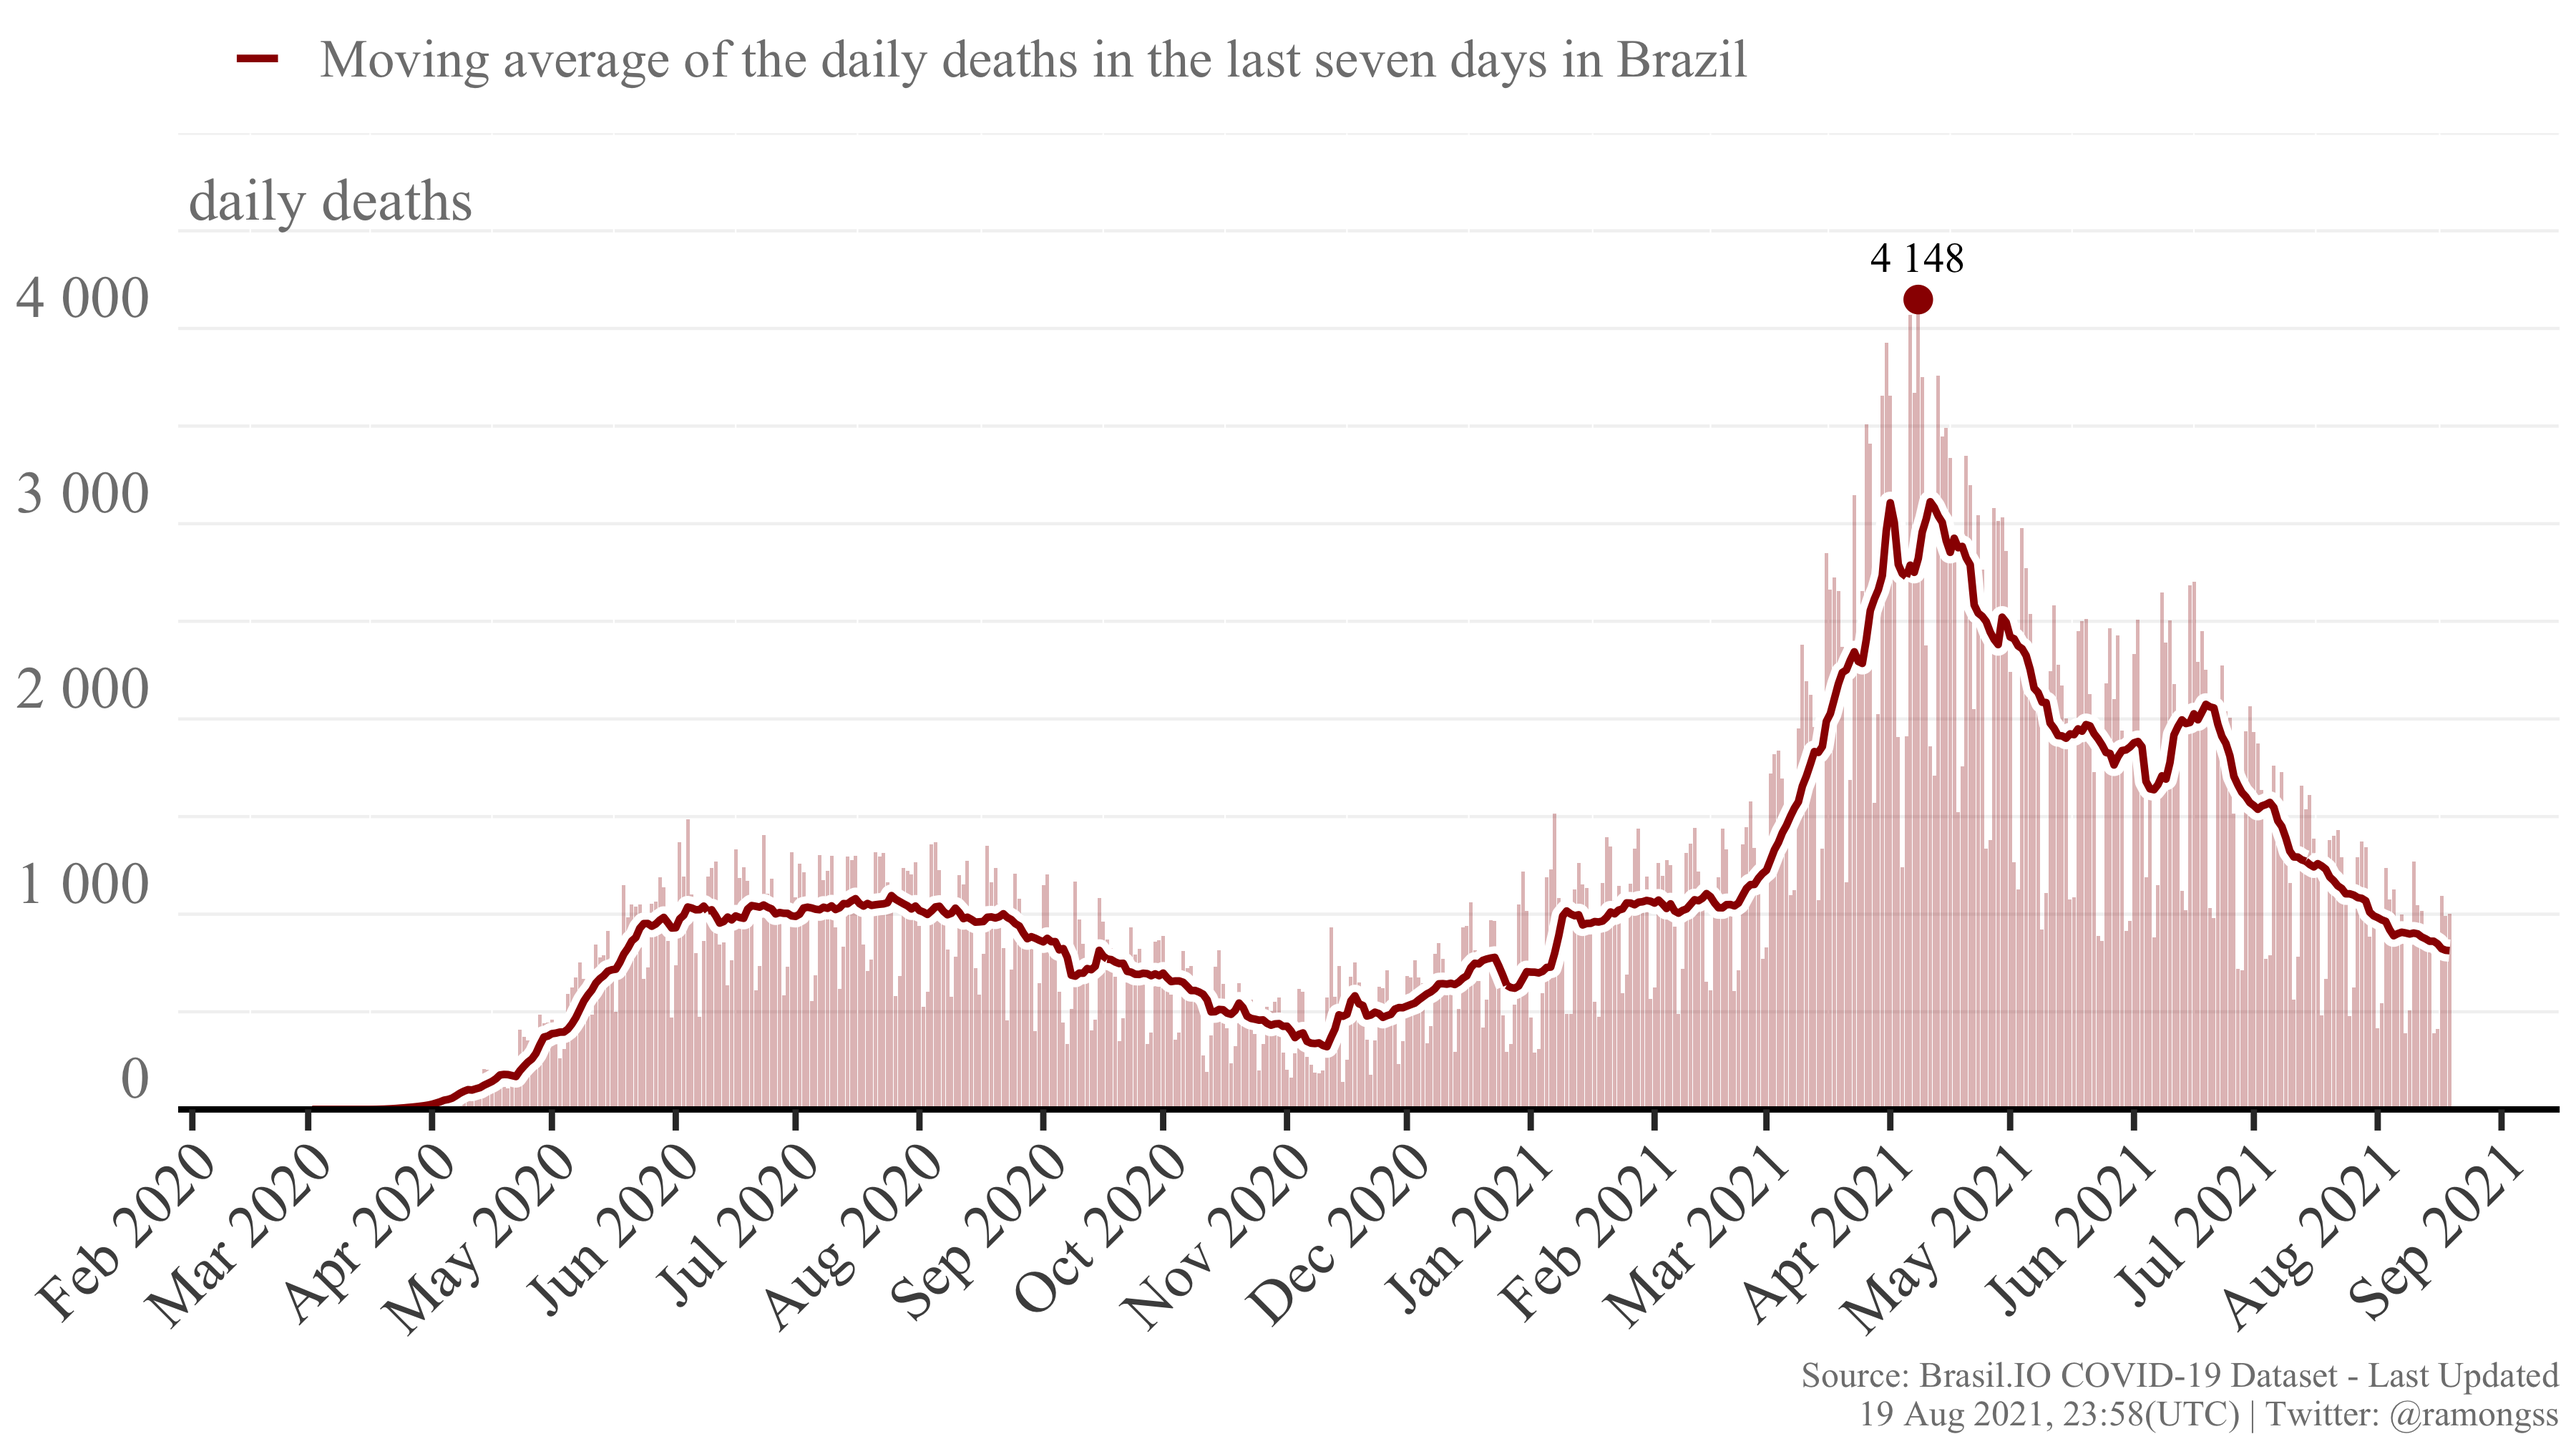
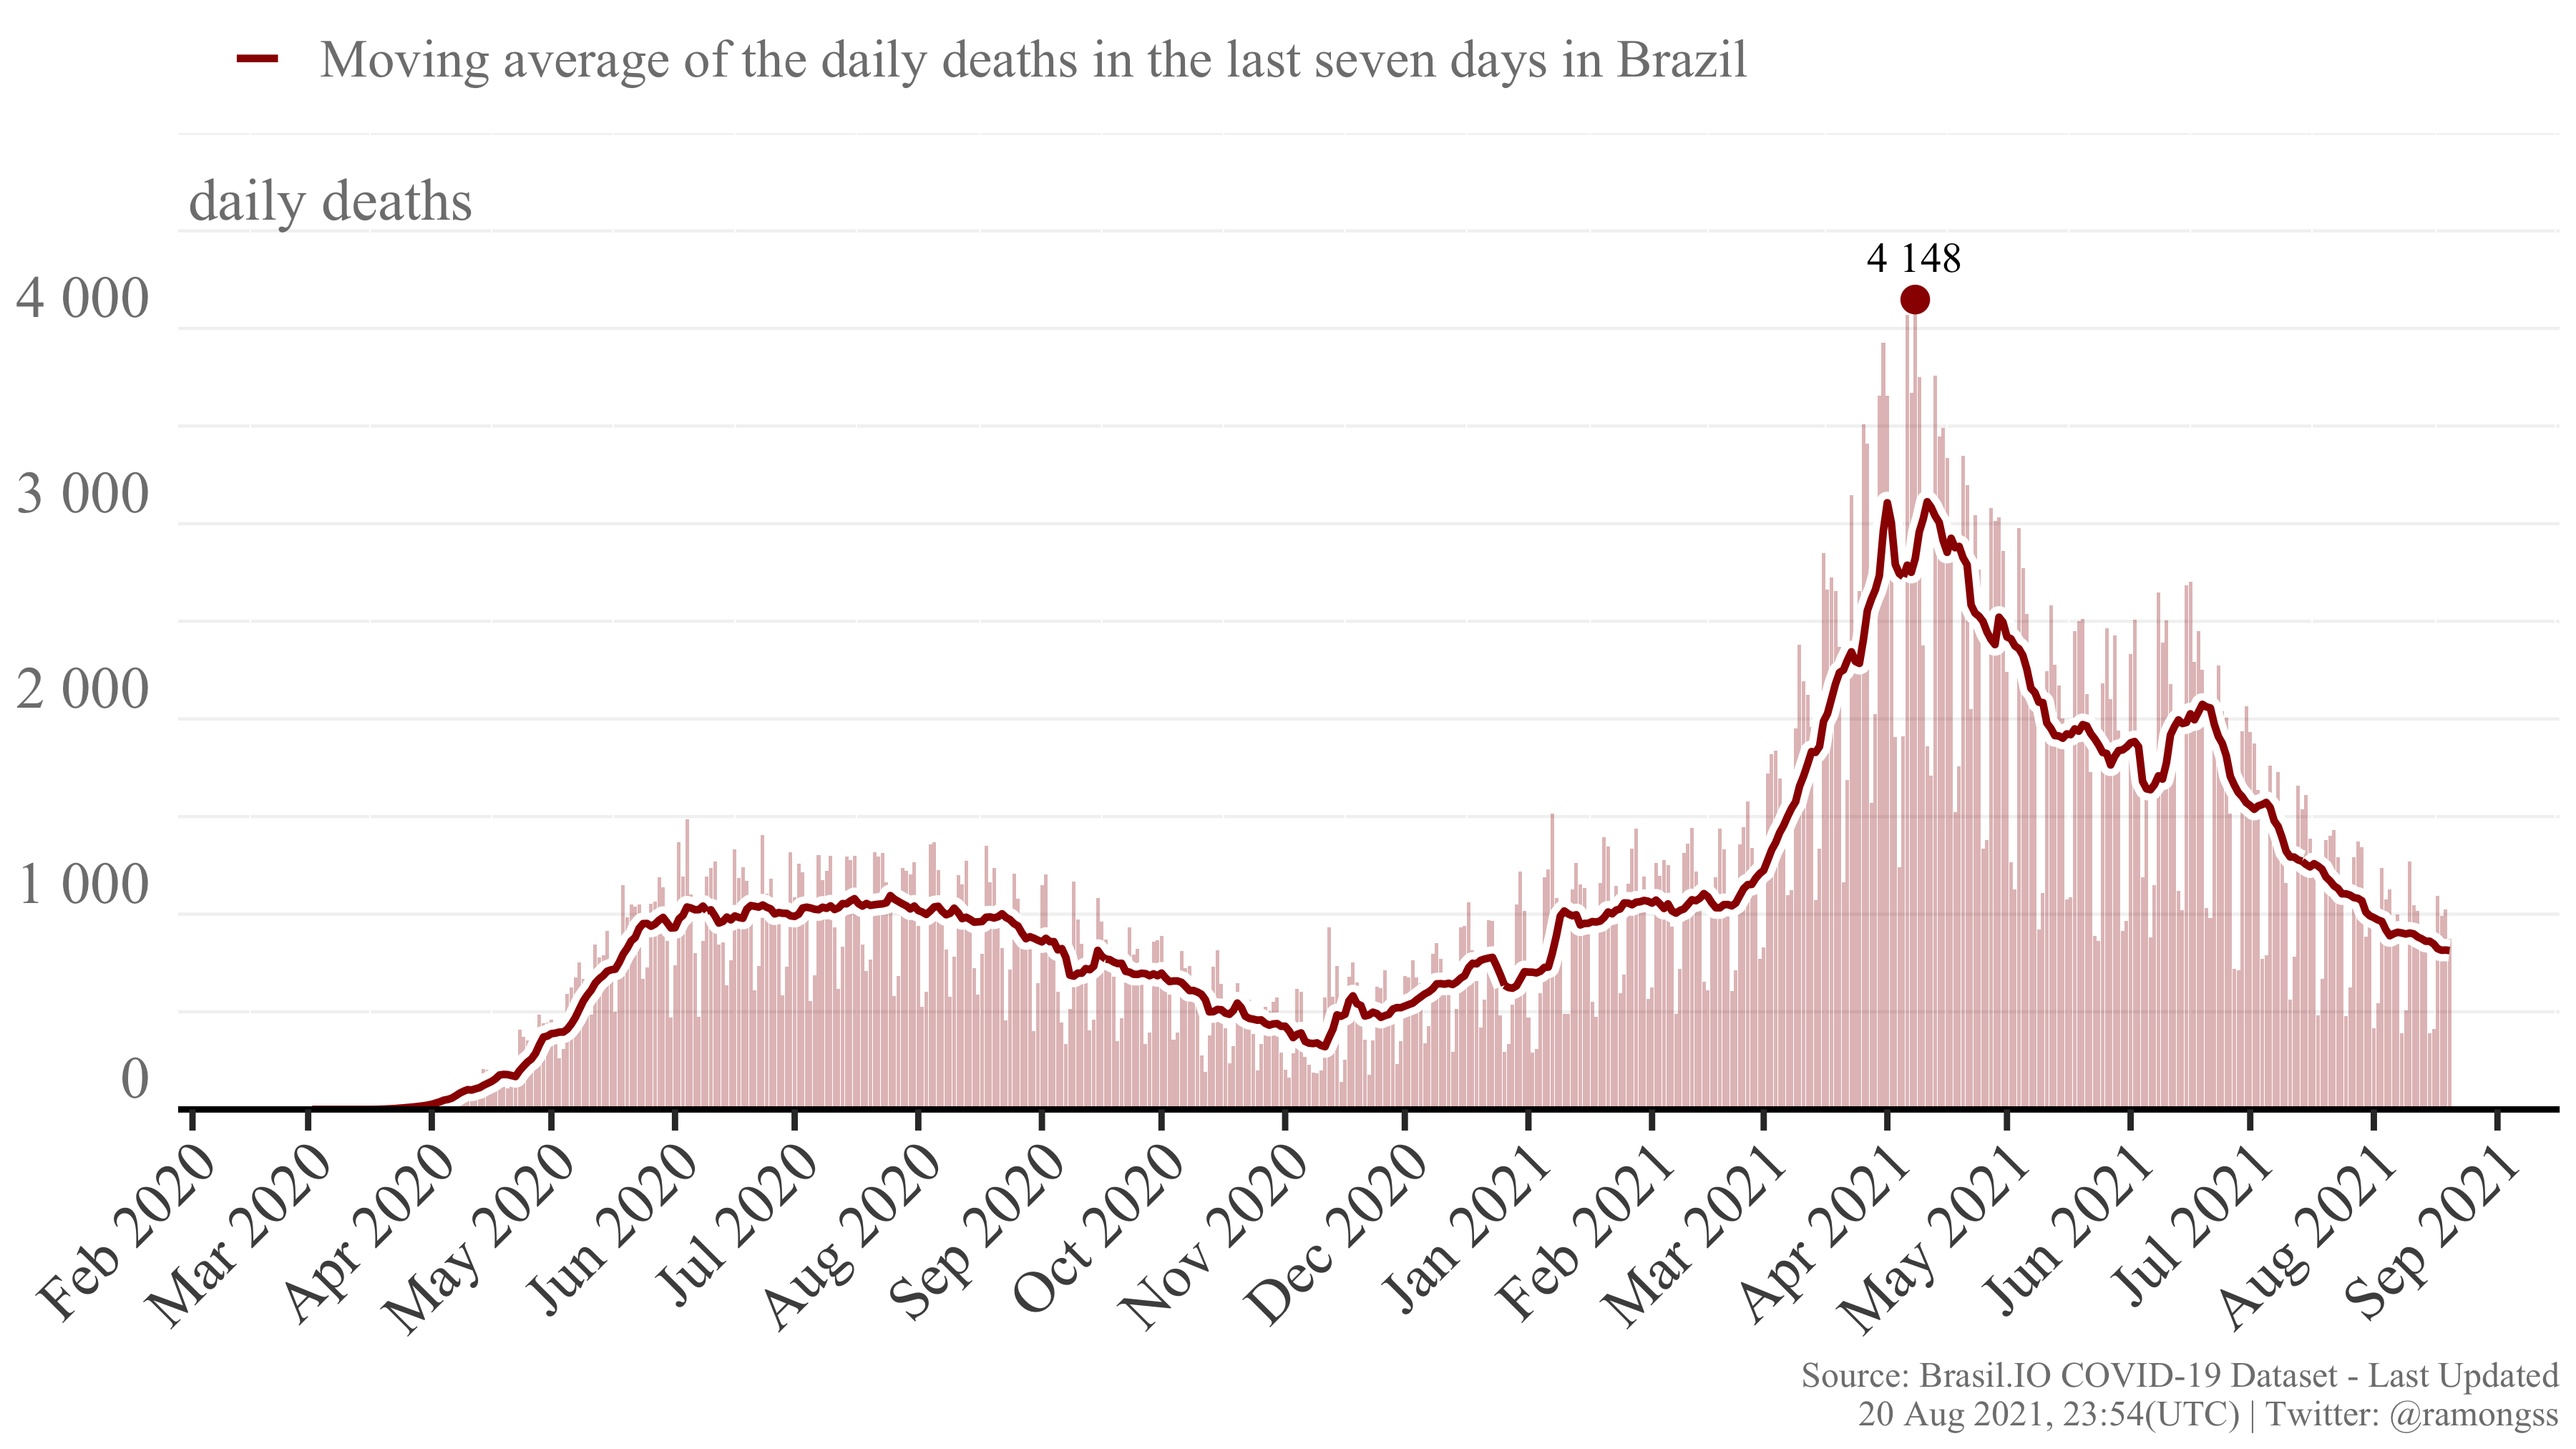
Re-build README.Rmd

diff --git a/README.md b/README.md
@@ -27,8 +27,8 @@ download_brasilio_table <- function(dataset = "covid19", table_name){
 
 ## COVID-19 Confirmed cases
 
-Currently, Brazil has a total of **20,500,419** confirmed cases at **19
-Aug, 2021**, with **34,694** new confirmed cases. The daily maximum
+Currently, Brazil has a total of **20,534,547** confirmed cases at **20
+Aug, 2021**, with **32,809** new confirmed cases. The daily maximum
 incidence was **124,248** confirmed cases at **22 Jun, 2021**. Here
 follows the Figure showing the confirmed case incidence as the bars, and
 the line as the moving average of the last 7 days.
@@ -37,8 +37,8 @@ the line as the moving average of the last 7 days.
 
 ## COVID-19 Deaths
 
-Currently, Brazil has a total of **572,948** deaths at **19 Aug, 2021**,
-with **1,003** new deaths. The daily maximum deaths incidence was
+Currently, Brazil has a total of **573,843** deaths at **20 Aug, 2021**,
+with **875** new deaths. The daily maximum deaths incidence was
 **4,148** deaths at **08 Apr, 2021**. Here follows the Figure showing
 the deaths incidence as the bars, and the line as the moving average of
 the last 7 days.
@@ -49,4 +49,4 @@ the last 7 days.
 
 This page is daily updated automatically using Github Actions.
 
-*Last update: 19 Aug 2021, 23:58 (UTC).*
+*Last update: 20 Aug 2021, 23:54 (UTC).*
